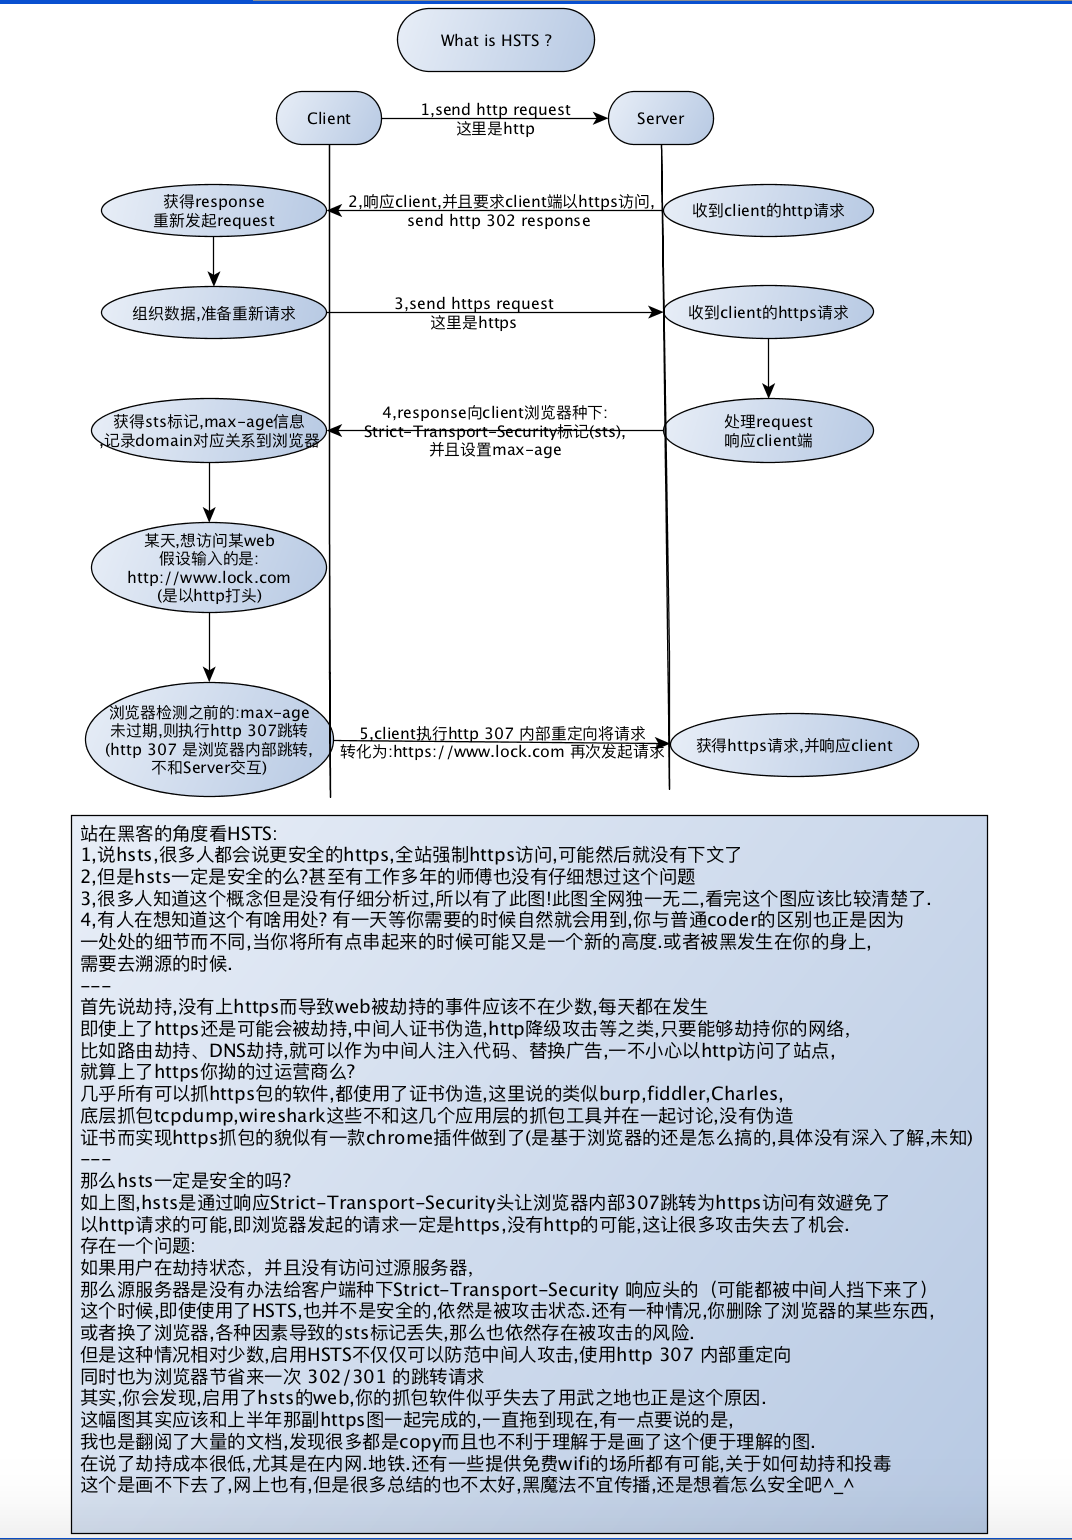
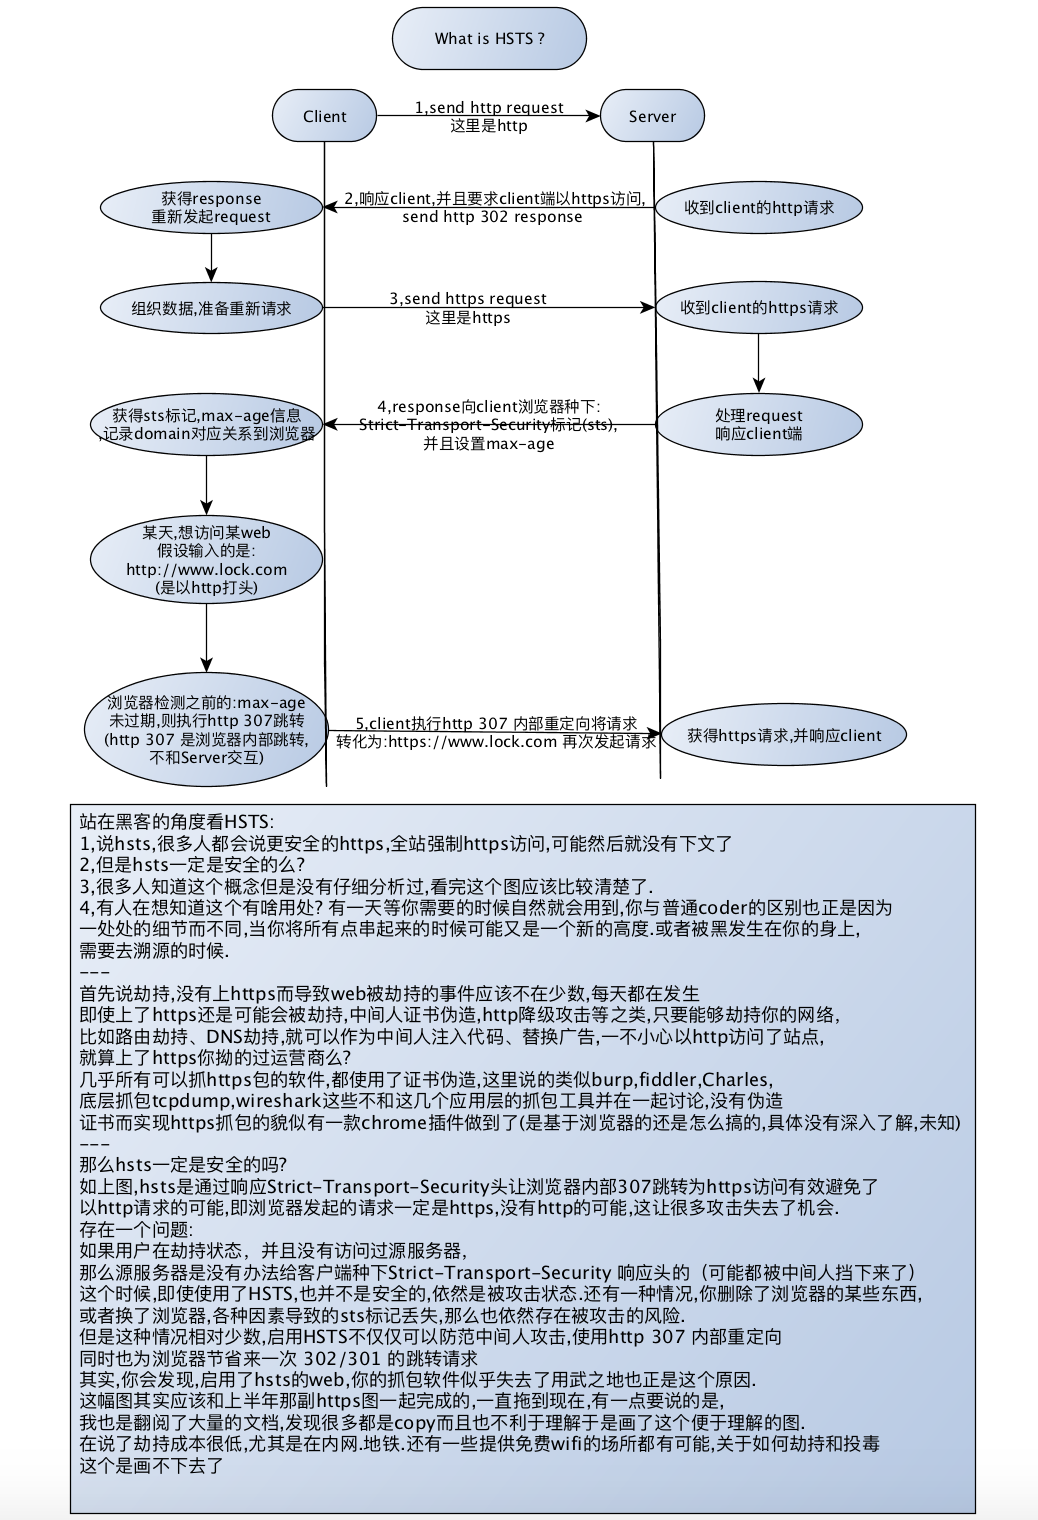
hsts

Changed region(s): [[0.0, 0.0, 1.0, 1.0], [0.3699, 0.1855, 0.5241, 0.2164]]

diff --git a/README.md b/README.md
@@ -60,7 +60,7 @@ python attackWiFi.py --ssid home --bssid 17:71:94:14:84:0d
 
 ### 图解HSTS
 ```
-一个全网独一无二，助你深入理解HSTS的图，O(∩_∩)O哈哈~
+HSTS一定是安全的的吗？助你深入理解HSTS的图。
 ```
 ![](https://github.com/LockGit/Hacking/blob/master/img/hsts.png)
 
